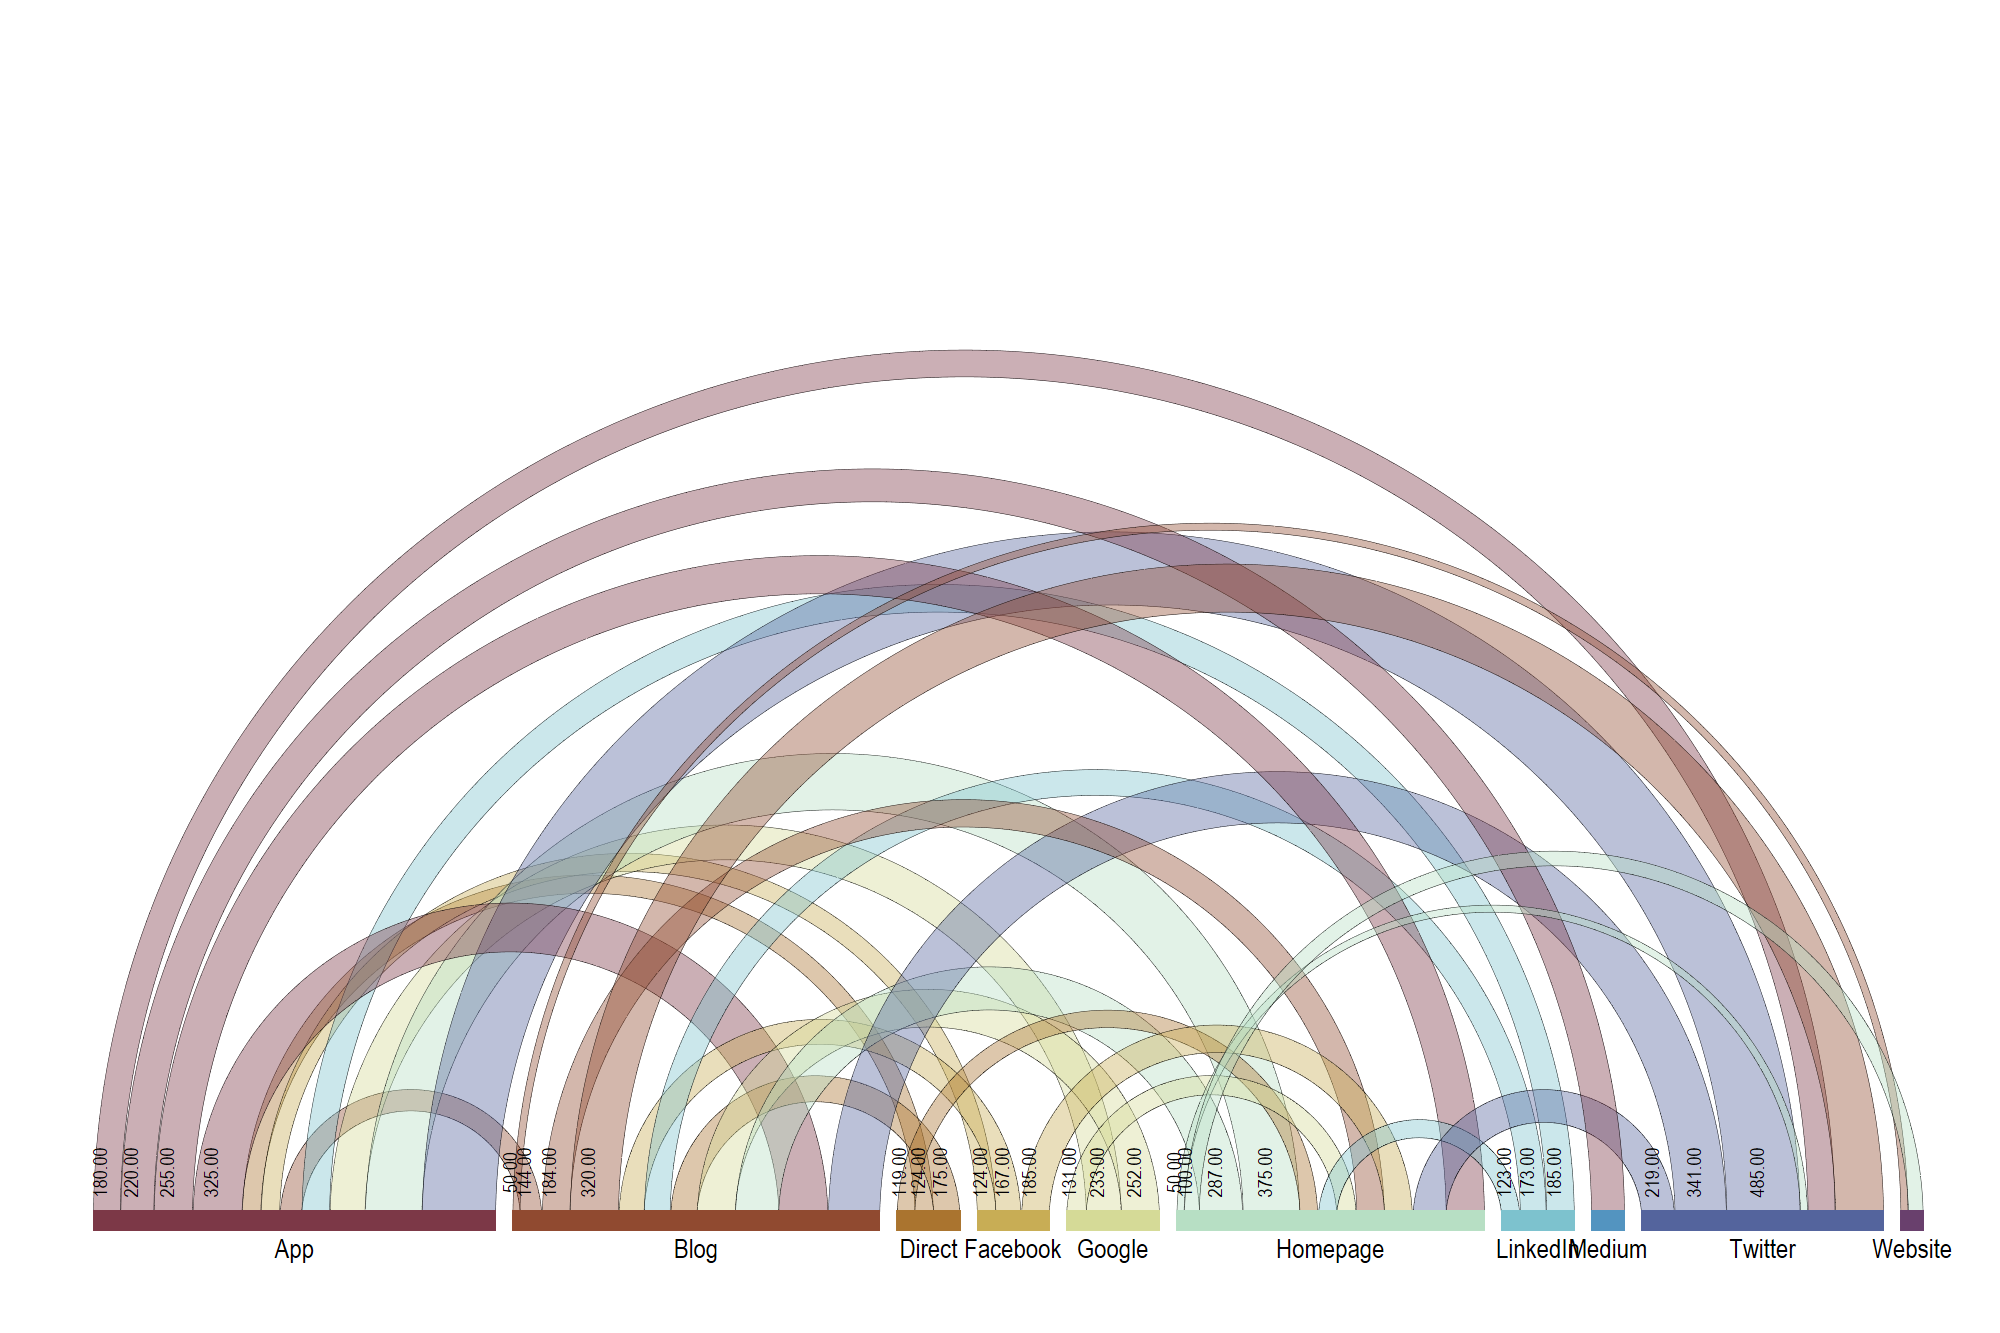
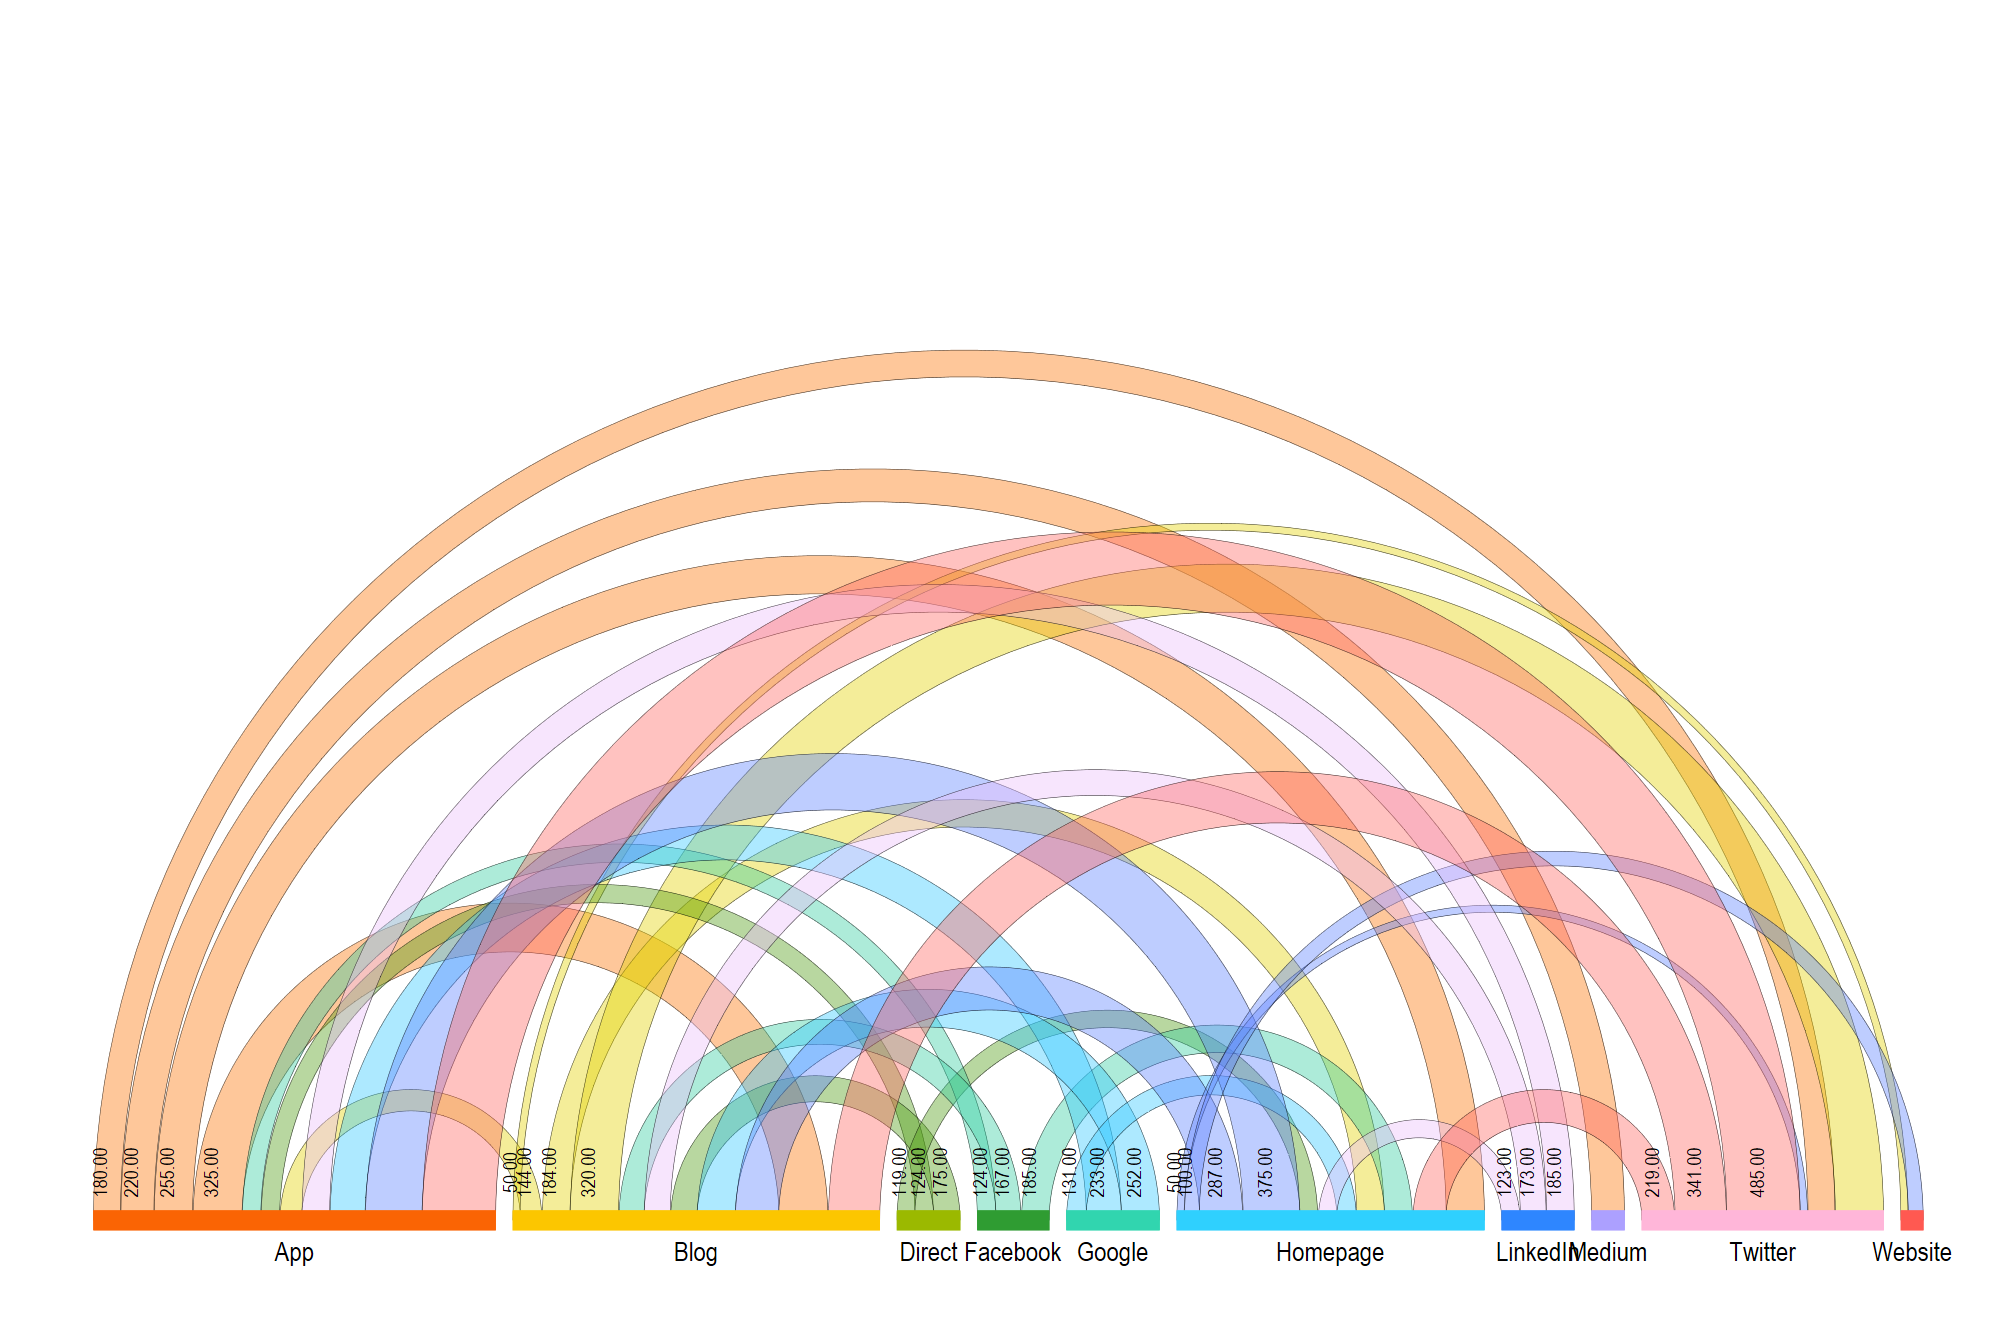
v1.2 (fix #1)

diff --git a/README.md b/README.md
@@ -1,7 +1,7 @@
 
 ![StataMin](https://img.shields.io/badge/stata-2015-blue) ![issues](https://img.shields.io/github/issues/asjadnaqvi/stata-arcplot) ![license](https://img.shields.io/github/license/asjadnaqvi/stata-arcplot) ![Stars](https://img.shields.io/github/stars/asjadnaqvi/stata-arcplot) ![version](https://img.shields.io/github/v/release/asjadnaqvi/stata-arcplot) ![release](https://img.shields.io/github/release-date/asjadnaqvi/stata-arcplot)
 
-# arcplot v1.1
+# arcplot v1.2
 
 This package allows us to draw arc plots in Stata. It is based on the [Arc plot Guide](https://medium.com/the-stata-guide/stata-graphs-arc-plots-eb87015510e6) (October 2021).
 
@@ -16,7 +16,7 @@ SSC (**v1.1**):
 ssc install arcplot, replace
 ```
 
-GitHub (**v1.1**):
+GitHub (**v1.2**):
 
 ```
 net install arcplot, from("https://raw.githubusercontent.com/asjadnaqvi/stata-arcplot/main/installation/") replace
@@ -51,7 +51,7 @@ graph set window fontface "Arial Narrow"
 
 ## Syntax
 
-The syntax for **v1.1** is as follows:
+The syntax for **v1.2** is as follows:
 
 ```
 arcplot *num var* [if] [in], from(str var) to(str var) 
@@ -84,17 +84,23 @@ use "https://github.com/asjadnaqvi/stata-arcplot/blob/main/data/sankey_example.d
 Let's test the `arcplot` command:
 
 ```
-arcplot value, from(source) to(destination)
+arcplot value, from(source) to(destination) palette(tableau) alpha(55)
 ```
 
 <img src="/figures/arcplot1.png" height="600">
 
 
 ```
-arcplot value, f(source) t(destination) alpha(40) format(%9.2fc) gap(0.01) vallabg(3) vallabs(1.5) lc(black) lw(0.03) palette(scico romaO)
+arcplot value, f(source) t(destination) alpha(40) format(%9.2fc) gap(0.01) vallabg(3) vallabs(1.5) lc(black) lw(0.03) palette(CET C6)
 ```
 
 <img src="/figures/arcplot2.png" height="600">
+
+```
+arcplot value, from(source) to(destination) vallabsize(1.3) lw(none) alpha(50)
+```
+
+<img src="/figures/arcplot3.png" height="600">
 
 
 ## Feedback
@@ -104,14 +110,15 @@ Please open an [issue](https://github.com/asjadnaqvi/stata-arcplot/issues) to re
 
 ## Versions
 
+**v1.2 (16 Feb 2023)**
+- Massive speed improvements by flattening the code.
 
 **v1.1 (08 Nov 2022)**
 - Several bug fixes.
 - Better label controls.
 - Gtools added for faster reshapes.
 
-
-**v1.0 (21 Aug 2022)**
+**v1.0 (22 Jun 2022)**
 - Public release.
 
 
